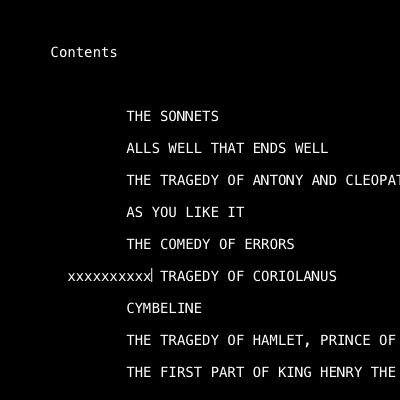
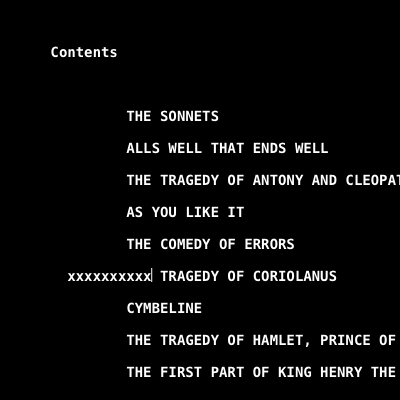
Constant weight

diff --git a/wingspan/src/paint.rs b/wingspan/src/paint.rs
@@ -2,7 +2,7 @@ use druid::{
     kurbo::Line,
     piet::{
         FontFamily, PietText, PietTextLayout, Text, TextAttribute, TextLayout,
-        TextLayoutBuilder,
+        TextLayoutBuilder, FontWeight,
     },
     Env, PaintCtx, Point, RenderContext,
 };
@@ -145,6 +145,7 @@ impl EditWidget {
             .new_text_layout(text)
             .font(font, font_size)
             .default_attribute(TextAttribute::ForegroundColor(default_colors))
+            .default_attribute(TextAttribute::Weight(FontWeight::MEDIUM))
             .build()
             .unwrap()
     }
